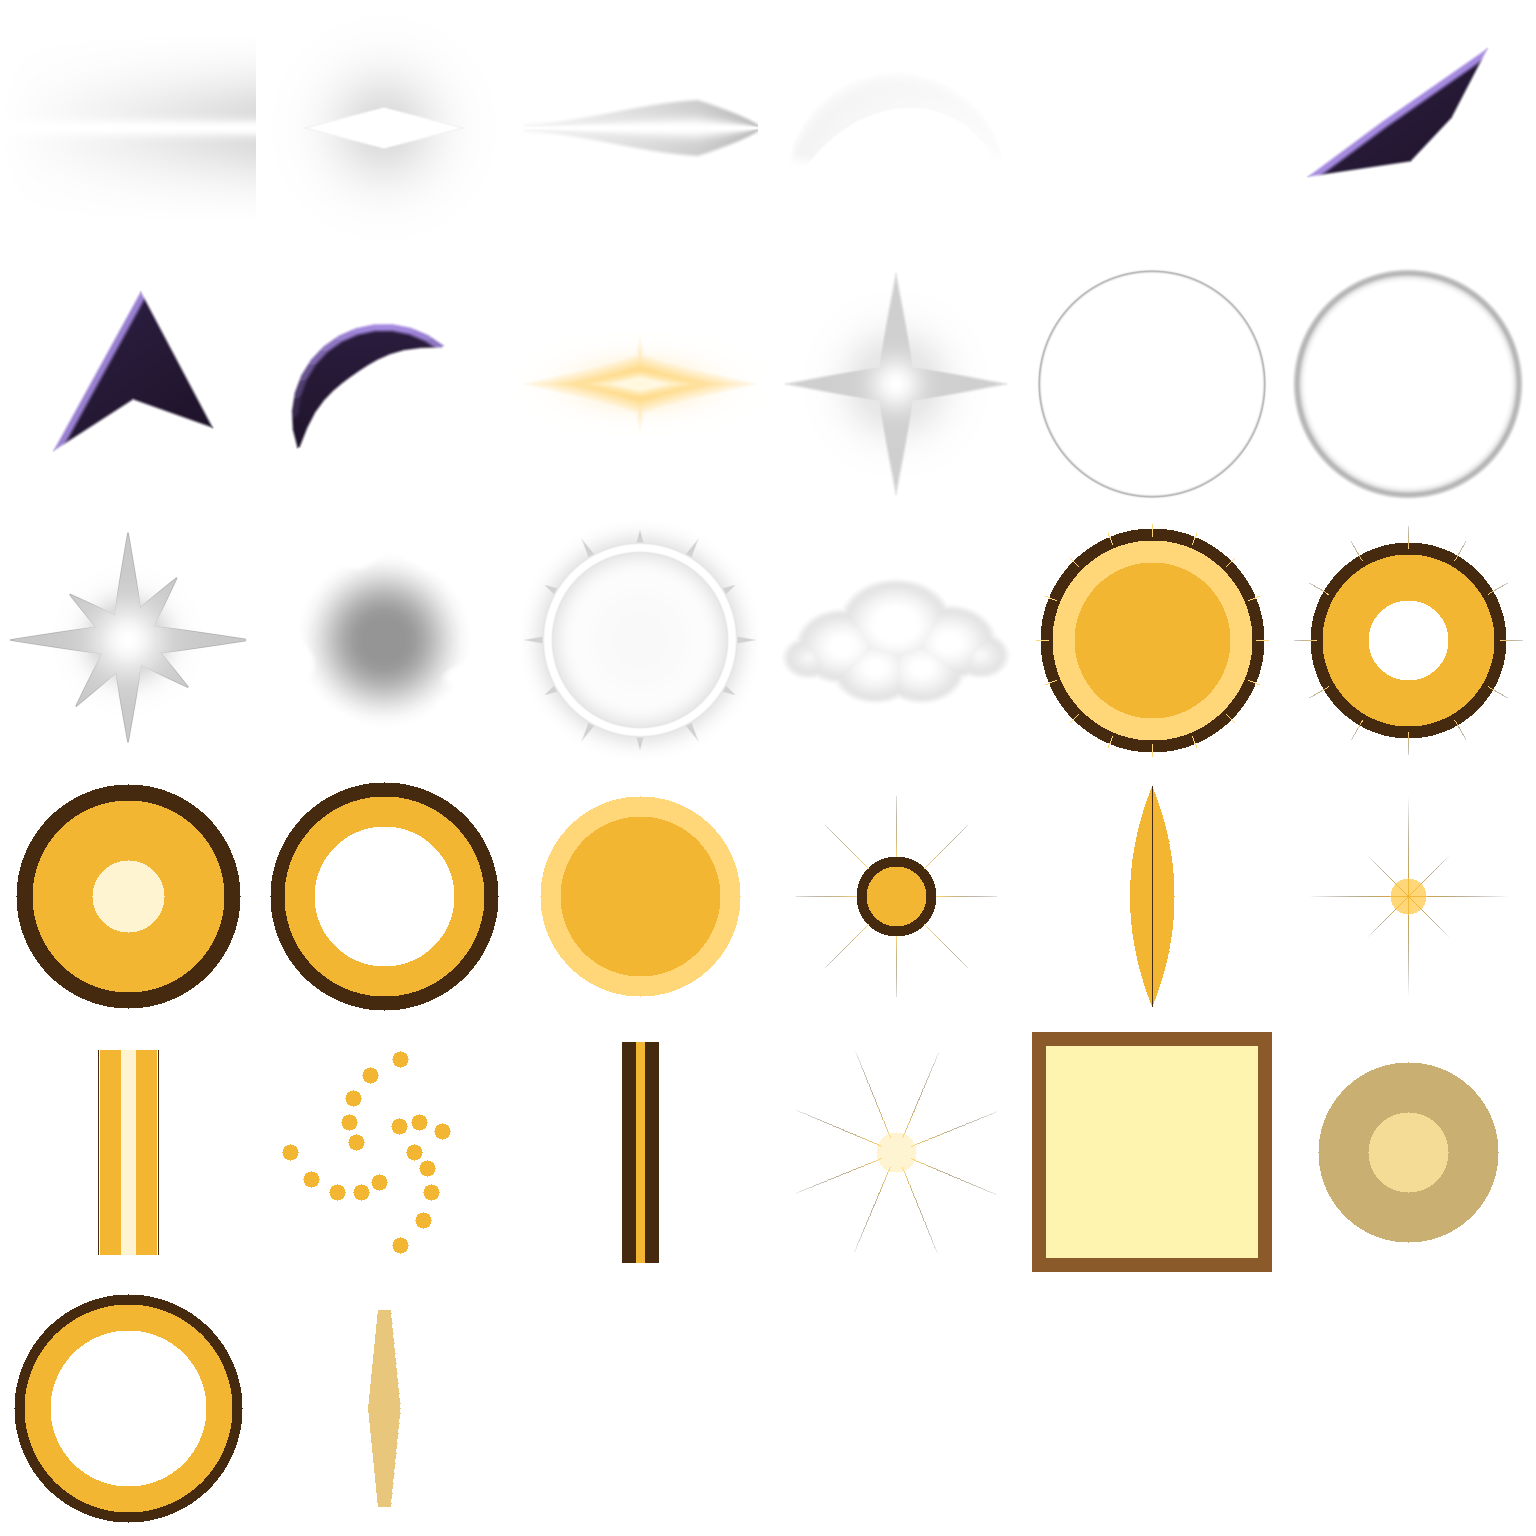
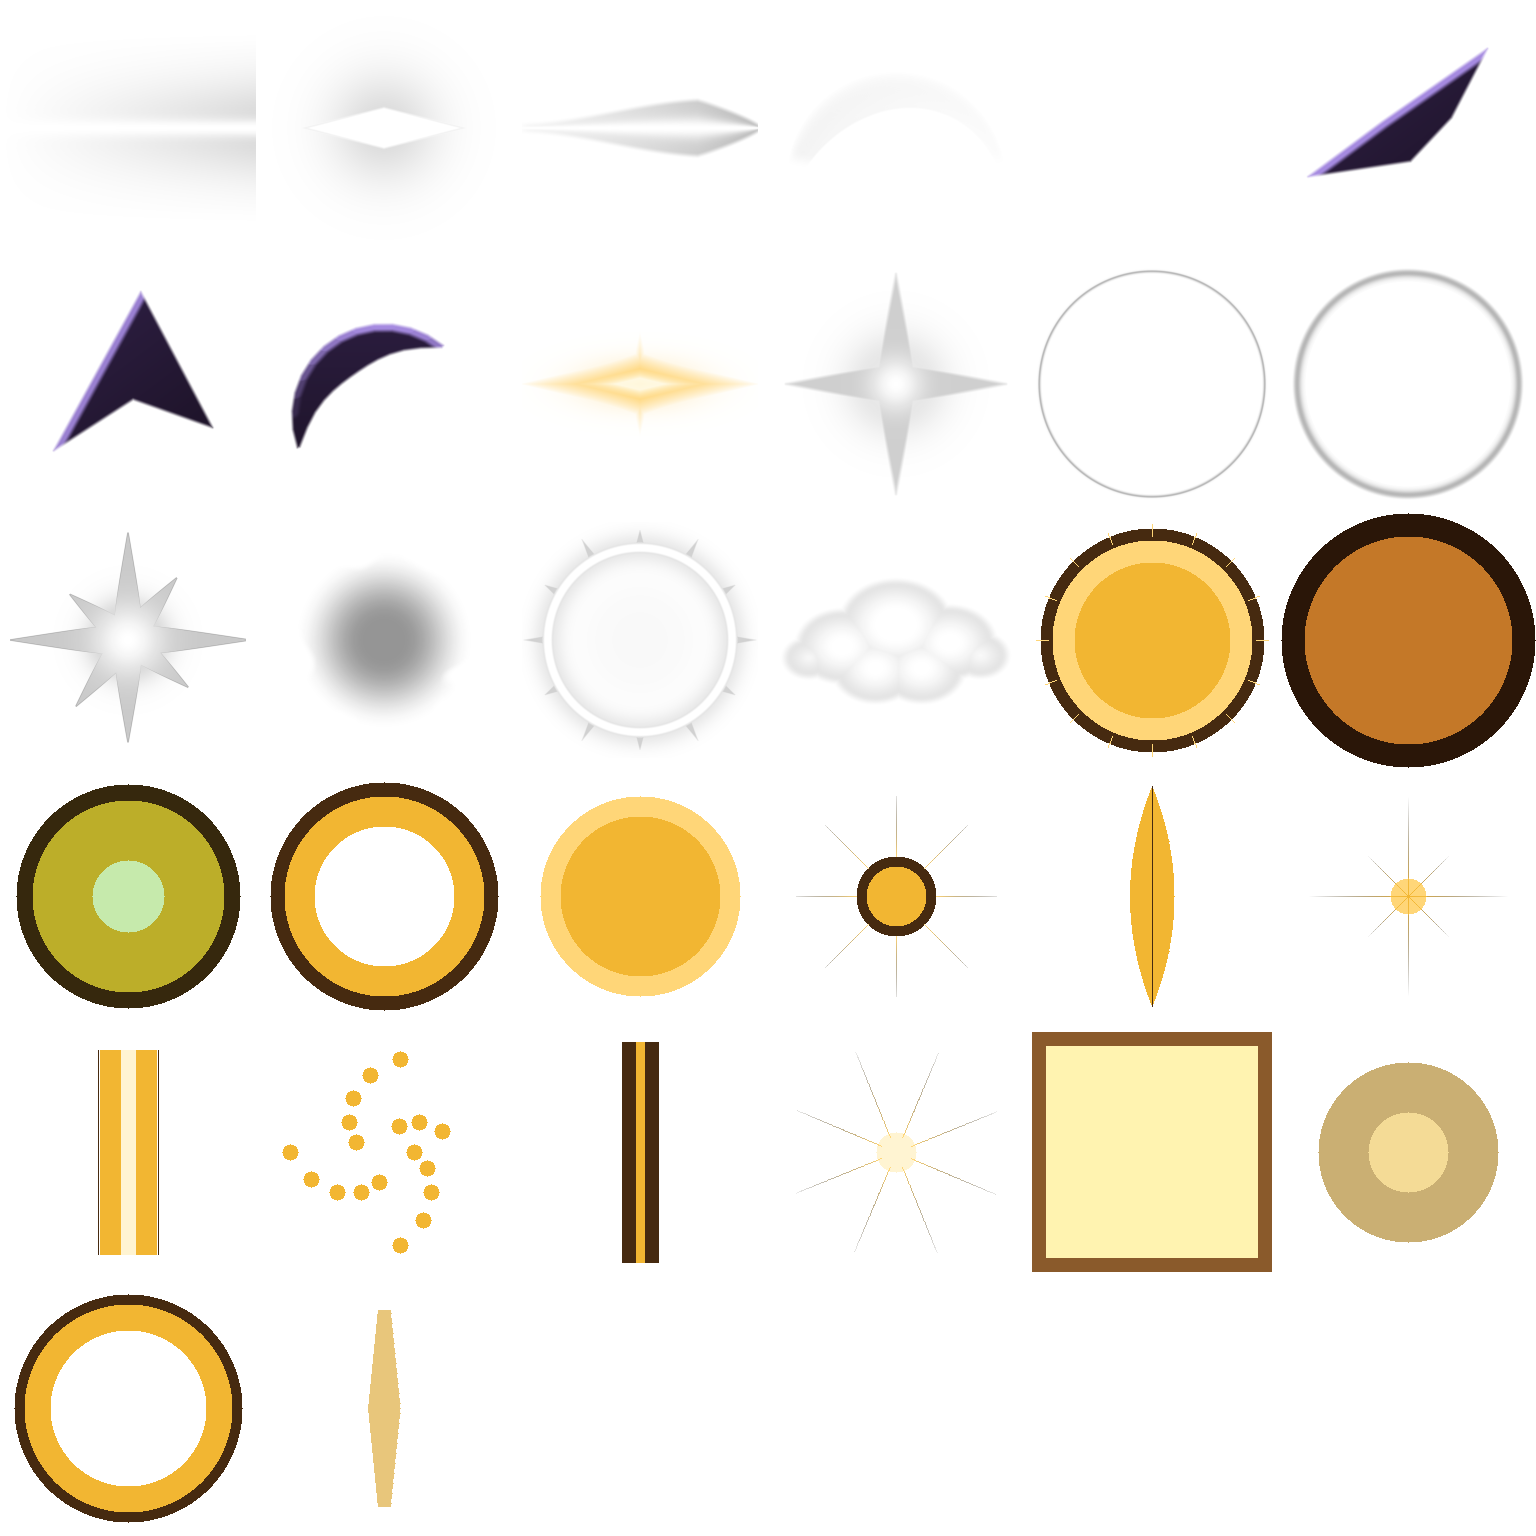
Repaint the Flare band and thicken the Halo and Prism bronze so the sun rim and size gates pass.

Changed region(s): [[0.8125, 0.3125, 1.0, 0.5], [0.0, 0.5, 0.1562, 0.6562]]

diff --git a/src/game/weapons/w2.ts b/src/game/weapons/w2.ts
@@ -120,6 +120,17 @@ function prismPart(): { position: Float32Array; color: Float32Array; emit: Float
     pushTri(pos, col, em, top, a, b, GOLD, 0.85)
     pushTri(pos, col, em, bot, b, a, BRONZE, 0)
     quad(pos, col, em, a, b, [b[0] ?? 0, (b[1] ?? 0) + 0.02, b[2] ?? 0], [a[0] ?? 0, (a[1] ?? 0) + 0.02, a[2] ?? 0], BRONZE, 0)
+    const ox0 = (a[0] ?? 0) * 1.55
+    const oz0 = (a[2] ?? 0) * 1.55
+    const ox1 = (b[0] ?? 0) * 1.55
+    const oz1 = (b[2] ?? 0) * 1.55
+    const ix0 = (a[0] ?? 0) * 0.55
+    const iz0 = (a[2] ?? 0) * 0.55
+    const ix1 = (b[0] ?? 0) * 0.55
+    const iz1 = (b[2] ?? 0) * 0.55
+    quad(pos, col, em, [ix0, -0.02, iz0], [ix1, -0.02, iz1], [ox1, -0.02, oz1], [ox0, -0.02, oz0], BRONZE, 0)
+    quad(pos, col, em, [ix0, 0.03, iz0], [ox0, 0.03, oz0], [ox1, 0.03, oz1], [ix1, 0.03, iz1], BRONZE, 0)
+    quad(pos, col, em, [ox0, -0.02, oz0], [ox1, -0.02, oz1], [ox1, 0.03, oz1], [ox0, 0.03, oz0], BRONZE, 0)
     const ax = (a[0] ?? 0) * 0.9
     const az = (a[2] ?? 0) * 0.9
     const bx = (b[0] ?? 0) * 0.9
@@ -1176,7 +1187,7 @@ export function createW2(fx: WeaponFx, arsenal: Arsenal): W2 {
           if (!pAlive[i]) continue
           const prismYaw = time * 2 + i
           arsenal.add({ kind: ARSENAL_PART.prism, x: pxA[i] ?? 0, y: 0.9, z: pzA[i] ?? 0, yaw: prismYaw, scale, hot: 1, swing: 0 })
-          const rims = spinRims(pxA[i] ?? 0, 0.9, pzA[i] ?? 0, prismYaw, scale, ringLocal(0.288, 0))
+          const rims = spinRims(pxA[i] ?? 0, 0.9, pzA[i] ?? 0, prismYaw, scale, ringLocal(0.32, 0))
           const rim = rims[0] ?? { x: pxA[i] ?? 0, y: 0.9, z: pzA[i] ?? 0 }
           probeAdd({
             kind: 'prism',

diff --git a/src/game/weapons/arsenal.ts b/src/game/weapons/arsenal.ts
@@ -121,9 +121,10 @@ function discArrays(pos: number[], col: number[], emit: number[], parts: number[
     const a1 = ((i + 1) / n) * Math.PI * 2
     const rIn = 0.36
     const y = 0.03
+    const rOut = 0.64
+    const lip = 0.16
     pushTri(part, pos, col, emit, parts, [0, y, 0], [Math.cos(a0) * rIn, y, Math.sin(a0) * rIn], [Math.cos(a1) * rIn, y, Math.sin(a1) * rIn], GOLD, GOLD, GOLD, 1, 0.7, 0.7)
     pushTri(part, pos, col, emit, parts, [0, -y, 0], [Math.cos(a1) * rIn, -y, Math.sin(a1) * rIn], [Math.cos(a0) * rIn, -y, Math.sin(a0) * rIn], BRONZE, BRONZE, BRONZE, 0, 0, 0)
-    const rOut = 0.5
     quad(
       part,
       pos,
@@ -134,6 +135,19 @@ function discArrays(pos: number[], col: number[], emit: number[], parts: number[
       [Math.cos(a1) * rIn, y, Math.sin(a1) * rIn],
       [Math.cos(a1) * rOut, y, Math.sin(a1) * rOut],
       [Math.cos(a0) * rOut, y, Math.sin(a0) * rOut],
+      BRONZE,
+      0,
+    )
+    quad(
+      part,
+      pos,
+      col,
+      emit,
+      parts,
+      [Math.cos(a0) * rOut, y, Math.sin(a0) * rOut],
+      [Math.cos(a1) * rOut, y, Math.sin(a1) * rOut],
+      [Math.cos(a1) * rOut, y + lip, Math.sin(a1) * rOut],
+      [Math.cos(a0) * rOut, y + lip, Math.sin(a0) * rOut],
       BRONZE,
       0,
     )

diff --git a/src/game/weapons/flare.ts b/src/game/weapons/flare.ts
@@ -205,15 +205,16 @@ export function createFlare(fx: WeaponFx): Flare {
   return flare
 
   function burstVisual(px: number, pz: number, radius: number, big: boolean) {
-    burst = { x: px, z: pz, radius, life: 0.45 }
-    fx.core(px, pz, Math.max(TUNING.flare.band, radius * 0.35))
-    fx.band(px, pz, radius, 0.45)
-    if (big) fx.band(px, pz, radius * 0.62, 0.4)
-    fx.shock(px, pz, radius * 0.85)
+    const shown = radius * TUNING.flare.visual
+    burst = { x: px, z: pz, radius: shown, life: 0.45 }
+    fx.core(px, pz, Math.max(TUNING.flare.band, shown * 0.35))
+    fx.band(px, pz, shown, 0.45)
+    if (big) fx.band(px, pz, shown * 0.62, 0.4)
+    fx.shock(px, pz, shown * 0.85)
     const tongues = 12
     for (let i = 0; i < tongues; i++) {
       const a = (i / tongues) * Math.PI * 2
-      fx.dust(px + Math.cos(a) * radius * 0.72, pz + Math.sin(a) * radius * 0.72)
+      fx.dust(px + Math.cos(a) * shown * 0.72, pz + Math.sin(a) * shown * 0.72)
     }
   }
 

diff --git a/src/data/features.ts b/src/data/features.ts
@@ -34,6 +34,7 @@ export const FEATURES: FeatureRow[] = [
   { area: 'Combat & Weapons', feature: 'Sunroller', status: 'shipped', since: 'W3' },
   { area: 'Combat & Weapons', feature: 'Obelisk Grove', status: 'shipped', since: 'W3' },
   { area: 'Combat & Weapons', feature: 'Mock Sun', status: 'shipped', since: 'W3' },
+  { area: 'Combat & Weapons', feature: 'W2 art carry: Halo rim, Prism outline, Flare hue and size', status: 'shipped', since: 'W3' },
   { area: 'Enemies', feature: 'Dusk Mite horde', status: 'shipped', since: 'M1' },
   { area: 'Enemies', feature: 'Shade Hound lunge', status: 'shipped', since: 'M1' },
   { area: 'Enemies', feature: 'Veilcaster, Crawler, Moth, Gloamling, elites, the Gloam', status: 'planned', since: 'M2' },

diff --git a/src/game/weapons/fx.ts b/src/game/weapons/fx.ts
@@ -567,7 +567,7 @@ export function createWeaponFx(): WeaponFx {
     },
     band(px, pz, radius, seconds) {
       const d = Math.max(0.8, radius) * 2
-      put(CELL.flareBand, px, 0.12, pz, 0, d, d, seconds, FX.punch, 3, 0, 0)
+      put(CELL.flareBand, px, 0.12, pz, 0, d, d, seconds, FX.punch, 0, 0, 0)
     },
     shock(px, pz, radius) {
       const d = (Math.max(0.4, radius) * 2) / RING

diff --git a/src/data/tuning.ts b/src/data/tuning.ts
@@ -215,6 +215,7 @@ export const TUNING = {
     spotMaxL5: 4,
     stagger: 0.35,
     band: 0.6,
+    visual: 1,
     core: 0.15,
     boss: 0.5,
   },
